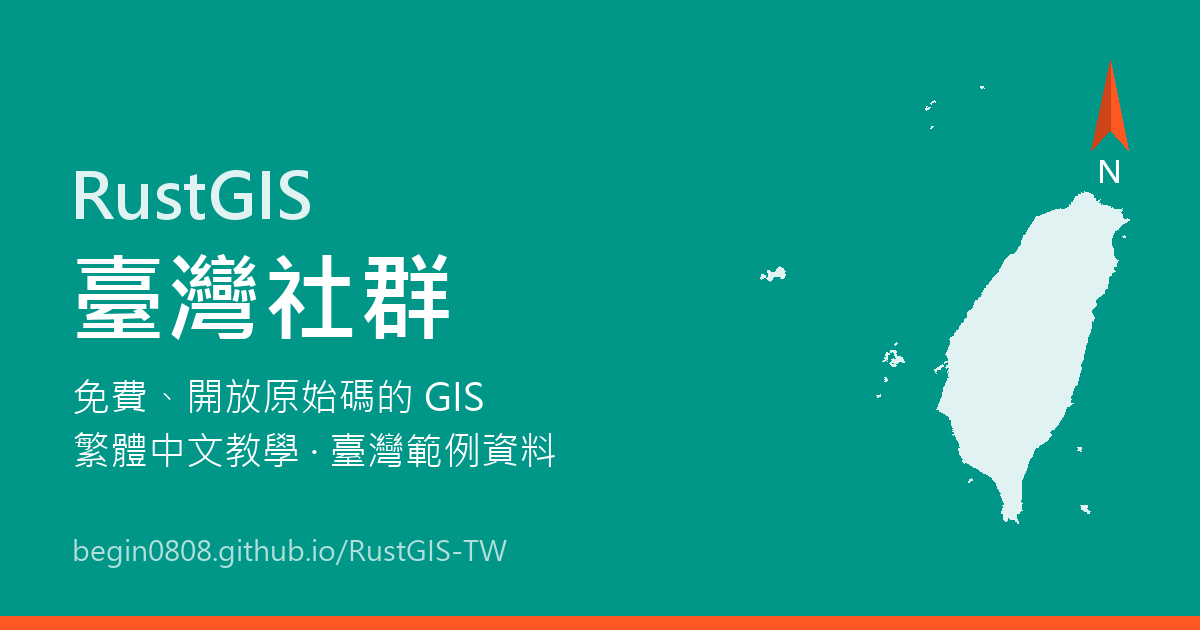
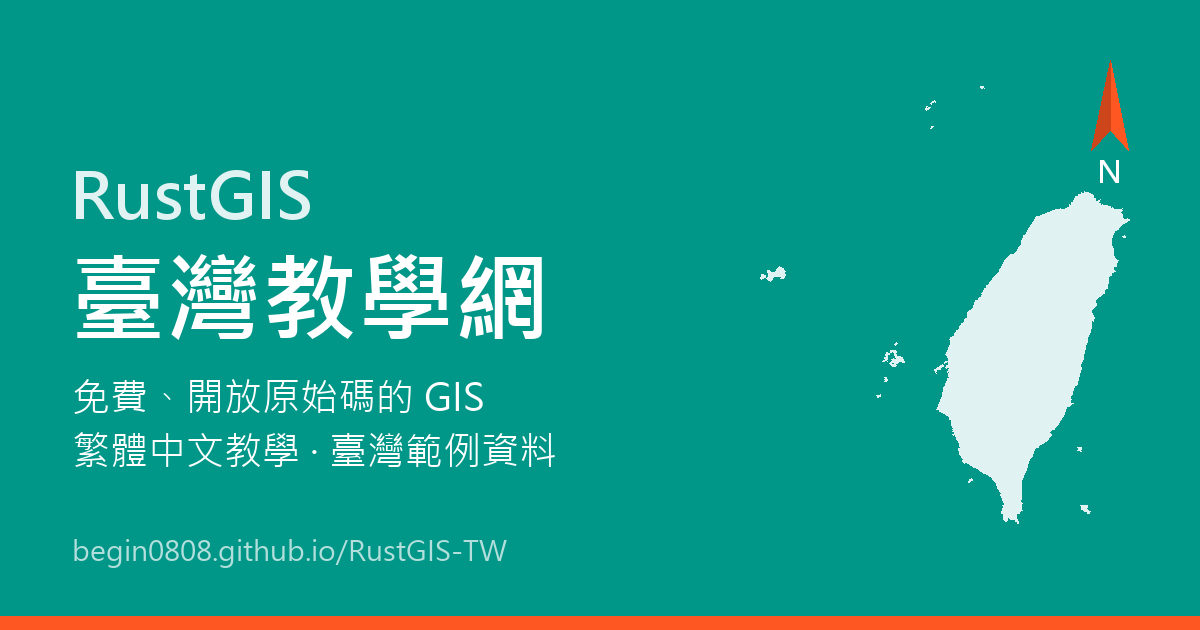
網站改名為「RustGIS 臺灣教學網」
網站目前是教學內容，沒有社群互動功能，所以不再稱為「社群」。
網址與倉庫名稱不變；分享卡片圖片一併更新。

Changed region(s): [[0.2158, 0.3921, 0.4625, 0.5429]]

diff --git a/overrides/main.html b/overrides/main.html
@@ -24,7 +24,7 @@
   <meta property="og:image" content="{{ config.site_url }}images/og-card.png">
   <meta property="og:image:width" content="1200">
   <meta property="og:image:height" content="630">
-  <meta property="og:image:alt" content="RustGIS 臺灣社群：繁體中文教學與臺灣範例資料">
+  <meta property="og:image:alt" content="RustGIS 臺灣教學網：繁體中文教學與臺灣範例資料">
   <meta name="twitter:card" content="summary_large_image">
   <link rel="apple-touch-icon" href="{{ 'images/favicon.png' | url }}">
 {% endblock %}

diff --git a/docs/faq.md b/docs/faq.md
@@ -60,7 +60,7 @@ RustGIS 會自動避免標註文字重疊。比例尺太小、縣市面積太小
 
 ### 這是 RustGIS 官方網站嗎？
 
-不是。本站是臺灣使用者整理的社群資源。RustGIS 由 [opengeos](https://github.com/opengeos/RustGIS) 開發，官方說明在 [rustgis.app](https://rustgis.app)（英文）。
+不是。本站是臺灣使用者整理的教學資源。RustGIS 由 [opengeos](https://github.com/opengeos/RustGIS) 開發，官方說明在 [rustgis.app](https://rustgis.app)（英文）。
 
 ### 發現教學有錯誤怎麼辦？
 

diff --git a/README.md b/README.md
@@ -1,4 +1,4 @@
-# RustGIS 臺灣社群（RustGIS-TW）
+# RustGIS 臺灣教學網（RustGIS-TW）
 
 [RustGIS](https://github.com/opengeos/RustGIS) 的繁體中文教學與臺灣範例資料。
 
